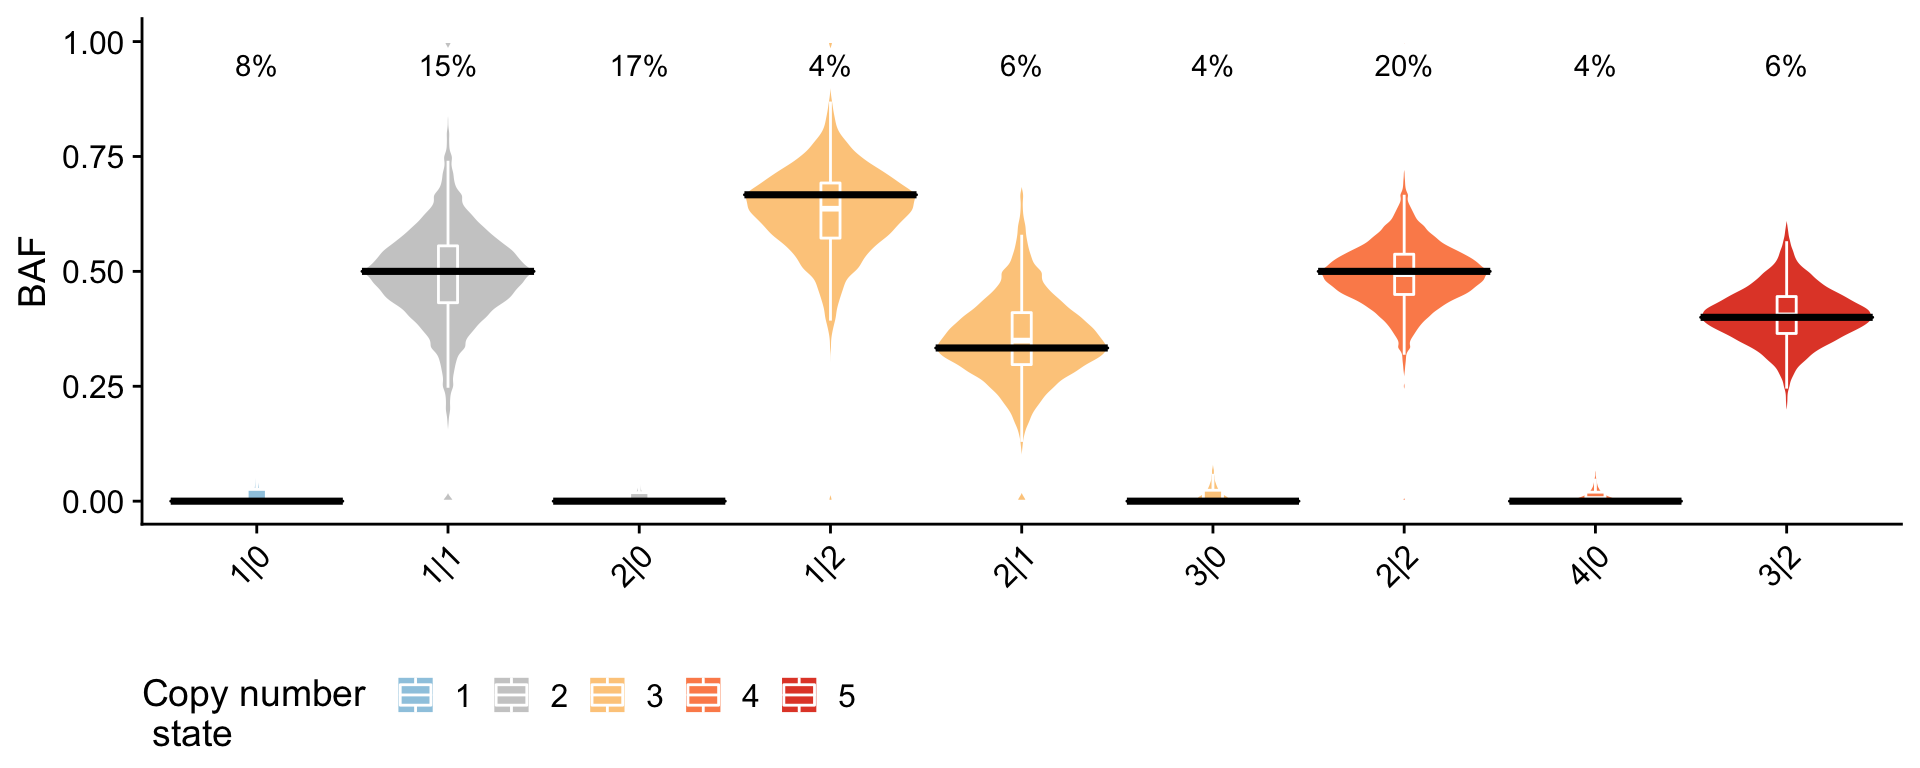
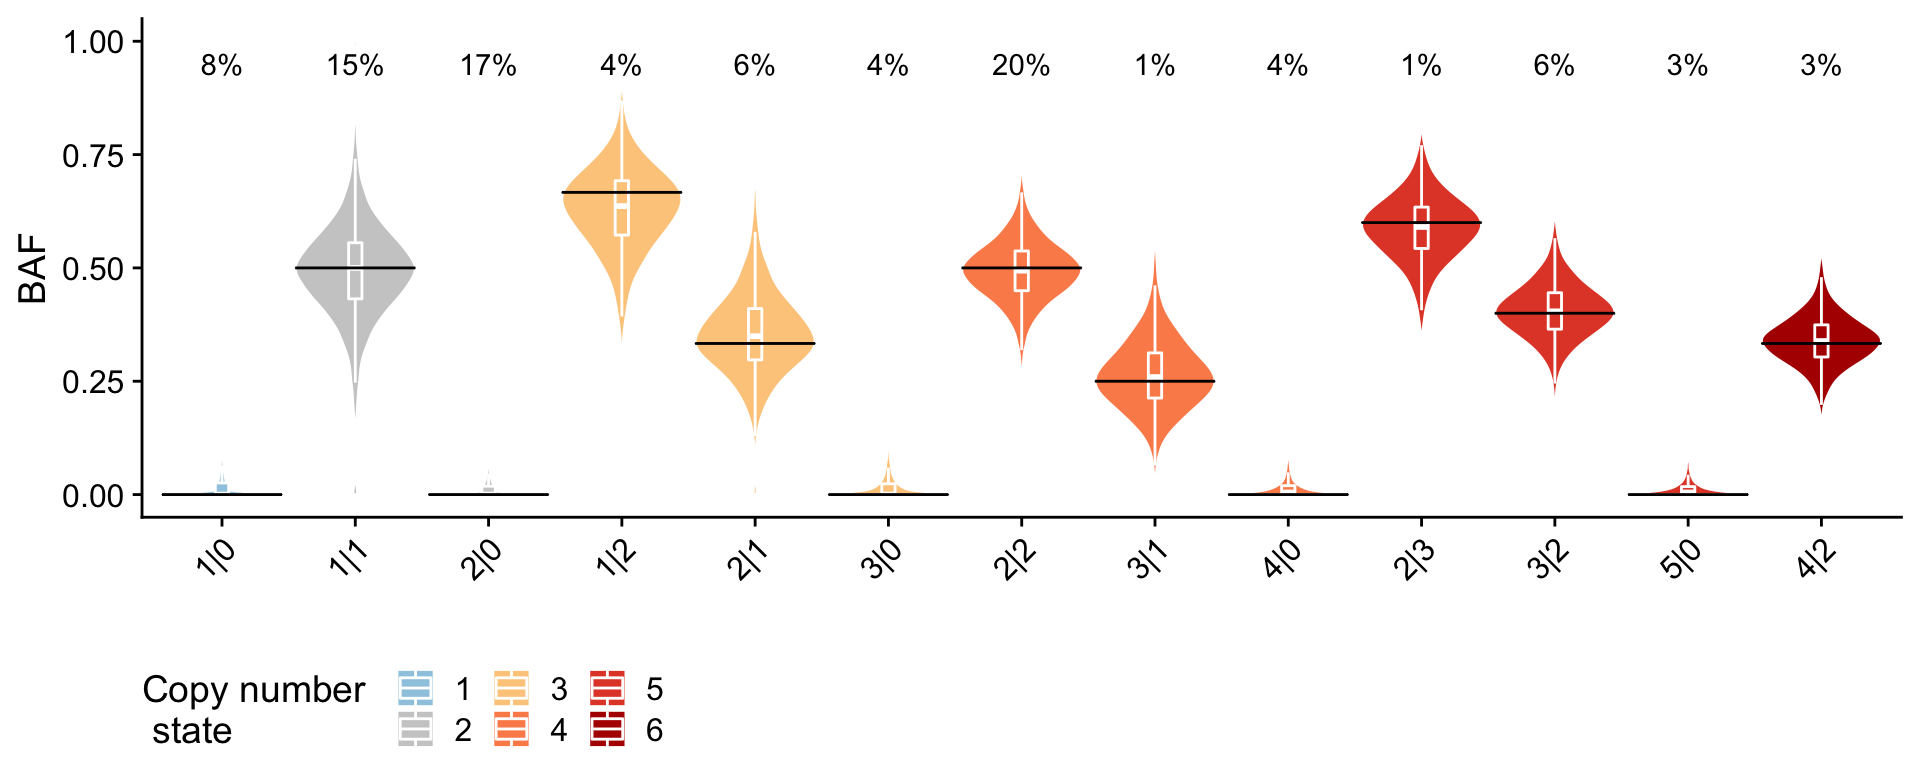
Built site for schnapps: 0.1.0@c740695

diff --git a/articles/BetaBinom.html b/articles/BetaBinom.html
@@ -102,8 +102,8 @@
 <span class="no">haplotypes</span> <span class="kw">&lt;-</span> <span class="fu">format_haplotypes_dlp</span>(<span class="no">haplotypes</span>, <span class="no">CNbins</span>)
 <span class="no">hscn</span> <span class="kw">&lt;-</span> <span class="fu"><a href="../reference/callHaplotypeSpecificCN.html">callHaplotypeSpecificCN</a></span>(<span class="no">CNbins</span>, <span class="no">haplotypes</span>, <span class="kw">likelihood</span> <span class="kw">=</span> <span class="st">"binomial"</span>)
 <span class="co">#&gt; </span>
-<span class="co">#&gt;  A  B  C  D </span>
-<span class="co">#&gt; 90 72 37 36</span>
+<span class="co">#&gt;  A  B  C </span>
+<span class="co">#&gt; 90 72 73</span>
 
 <span class="fu"><a href="https://rdrr.io/r/base/print.html">print</a></span>(<span class="no">hscn</span>)
 <span class="co">#&gt; Haplotype specific copy number object </span>
@@ -144,7 +144,7 @@
 <div class="sourceCode" id="cb3"><html><body><pre class="r"><span class="fu">plotHeatmap</span>(<span class="no">hscn</span>, <span class="kw">plotcol</span> <span class="kw">=</span> <span class="st">"state_BAF"</span>, <span class="kw">plottree</span> <span class="kw">=</span> <span class="fl">FALSE</span>, <span class="kw">spacer_cols</span> <span class="kw">=</span> <span class="fl">15</span>)
 <span class="co">#&gt; </span>
 <span class="co">#&gt;  A  B  C  D  E  F  G </span>
-<span class="co">#&gt; 36 36 25 44 21 37 36</span></pre></body></html></div>
+<span class="co">#&gt; 21 25 44 36 36 37 36</span></pre></body></html></div>
 <p><img src="BetaBinom_files/figure-html/unnamed-chunk-3-1.png" width="960"></p>
 </div>
 <div id="beta-binomial-model" class="section level3">
@@ -164,44 +164,26 @@
 <p><img src="BetaBinom_files/figure-html/unnamed-chunk-5-1.png" width="960"></p>
 <p>We can check how similar the results are by comparing the two dataframes. We find for this data that the results are very similar.</p>
 <div class="sourceCode" id="cb6"><html><body><pre class="r"><span class="fu"><a href="https://rdrr.io/r/base/print.html">print</a></span>(<span class="fu"><a href="https://rdrr.io/r/base/dim.html">dim</a></span>(<span class="no">hscn</span>$<span class="no">data</span>))
-<span class="co">#&gt; [1] 507859     19</span>
+<span class="co">#&gt; [1] 507878     19</span>
 <span class="fu"><a href="https://rdrr.io/r/base/print.html">print</a></span>(<span class="fu"><a href="https://rdrr.io/r/base/dim.html">dim</a></span>(<span class="no">hscn_bb</span>$<span class="no">data</span>))
 <span class="co">#&gt; [1] 507878     19</span>
 <span class="fu"><a href="https://rdrr.io/r/base/all.equal.html">all.equal</a></span>(<span class="fu">orderdf</span>(<span class="no">hscn</span>$<span class="no">data</span>), <span class="fu">orderdf</span>(<span class="no">hscn_bb</span>$<span class="no">data</span>))
-<span class="co">#&gt;  [1] "Attributes: &lt; Component \"row.names\": Numeric: lengths (507860, 507879) differ &gt;"              </span>
-<span class="co">#&gt;  [2] "Component \"chr\": Lengths (507860, 507879) differ (string compare on first 507860)"            </span>
-<span class="co">#&gt;  [3] "Component \"chr\": 65641 string mismatches"                                                     </span>
-<span class="co">#&gt;  [4] "Component \"start\": Numeric: lengths (507860, 507879) differ"                                  </span>
-<span class="co">#&gt;  [5] "Component \"end\": Numeric: lengths (507860, 507879) differ"                                    </span>
-<span class="co">#&gt;  [6] "Component \"cell_id\": Lengths (507860, 507879) differ (string compare on first 507860)"        </span>
-<span class="co">#&gt;  [7] "Component \"cell_id\": 'is.NA' value mismatch: 0 in current 1 in target"                        </span>
-<span class="co">#&gt;  [8] "Component \"state\": Numeric: lengths (507860, 507879) differ"                                  </span>
-<span class="co">#&gt;  [9] "Component \"copy\": Numeric: lengths (507860, 507879) differ"                                   </span>
-<span class="co">#&gt; [10] "Component \"alleleA\": Numeric: lengths (507860, 507879) differ"                                </span>
-<span class="co">#&gt; [11] "Component \"alleleB\": Numeric: lengths (507860, 507879) differ"                                </span>
-<span class="co">#&gt; [12] "Component \"totalcounts\": Numeric: lengths (507860, 507879) differ"                            </span>
-<span class="co">#&gt; [13] "Component \"BAF\": Numeric: lengths (507860, 507879) differ"                                    </span>
-<span class="co">#&gt; [14] "Component \"state_min\": Numeric: lengths (507860, 507879) differ"                              </span>
-<span class="co">#&gt; [15] "Component \"Maj\": Numeric: lengths (507860, 507879) differ"                                    </span>
-<span class="co">#&gt; [16] "Component \"Min\": Numeric: lengths (507860, 507879) differ"                                    </span>
-<span class="co">#&gt; [17] "Component \"state_AS_phased\": Lengths (507860, 507879) differ (string compare on first 507860)"</span>
-<span class="co">#&gt; [18] "Component \"state_AS_phased\": 'is.NA' value mismatch: 0 in current 1 in target"                </span>
-<span class="co">#&gt; [19] "Component \"state_AS\": Lengths (507860, 507879) differ (string compare on first 507860)"       </span>
-<span class="co">#&gt; [20] "Component \"state_AS\": 'is.NA' value mismatch: 0 in current 1 in target"                       </span>
-<span class="co">#&gt; [21] "Component \"LOH\": Lengths (507860, 507879) differ (string compare on first 507860)"            </span>
-<span class="co">#&gt; [22] "Component \"LOH\": 'is.NA' value mismatch: 0 in current 1 in target"                            </span>
-<span class="co">#&gt; [23] "Component \"phase\": Lengths (507860, 507879) differ (string compare on first 507860)"          </span>
-<span class="co">#&gt; [24] "Component \"phase\": 'is.NA' value mismatch: 0 in current 1 in target"                          </span>
-<span class="co">#&gt; [25] "Component \"state_phase\": Lengths (507860, 507879) differ (string compare on first 507860)"    </span>
-<span class="co">#&gt; [26] "Component \"state_phase\": 'is.NA' value mismatch: 0 in current 1 in target"                    </span>
-<span class="co">#&gt; [27] "Component \"state_BAF\": Numeric: lengths (507860, 507879) differ"</span></pre></body></html></div>
+<span class="co">#&gt; [1] "Component \"state_min\": Mean relative difference: 0.5903767"</span>
+<span class="co">#&gt; [2] "Component \"Maj\": Mean relative difference: 0.3549388"      </span>
+<span class="co">#&gt; [3] "Component \"Min\": Mean relative difference: 0.5137029"      </span>
+<span class="co">#&gt; [4] "Component \"state_AS_phased\": 5535 string mismatches"       </span>
+<span class="co">#&gt; [5] "Component \"state_AS\": 1601 string mismatches"              </span>
+<span class="co">#&gt; [6] "Component \"LOH\": 1385 string mismatches"                   </span>
+<span class="co">#&gt; [7] "Component \"phase\": 3354 string mismatches"                 </span>
+<span class="co">#&gt; [8] "Component \"state_phase\": 4371 string mismatches"           </span>
+<span class="co">#&gt; [9] "Component \"state_BAF\": Mean relative difference: 0.6628337"</span></pre></body></html></div>
 <p>Another thing we can check is the total number of segments identified by the HMM. Using the beta-binomial model should reduce the influence of any noisy regions and thus we might expect fewer segments. We do observe fewer segments in the beta-binomial model.</p>
 <div class="sourceCode" id="cb7"><html><body><pre class="r"><span class="no">segs</span> <span class="kw">&lt;-</span> <span class="fu">create_segments</span>(<span class="no">hscn</span>$<span class="no">data</span>, <span class="kw">field</span> <span class="kw">=</span> <span class="st">"state_AS_phased"</span>)
 
 <span class="no">segs_bb</span> <span class="kw">&lt;-</span> <span class="fu">create_segments</span>(<span class="no">hscn_bb</span>$<span class="no">data</span>, <span class="kw">field</span> <span class="kw">=</span> <span class="st">"state_AS_phased"</span>)
 
 <span class="fu"><a href="https://rdrr.io/r/base/print.html">print</a></span>(<span class="fu"><a href="https://rdrr.io/r/base/dim.html">dim</a></span>(<span class="no">segs</span>))
-<span class="co">#&gt; [1] 34140     5</span>
+<span class="co">#&gt; [1] 34454     5</span>
 <span class="fu"><a href="https://rdrr.io/r/base/print.html">print</a></span>(<span class="fu"><a href="https://rdrr.io/r/base/dim.html">dim</a></span>(<span class="no">segs_bb</span>))
 <span class="co">#&gt; [1] 31224     5</span></pre></body></html></div>
 </div>
